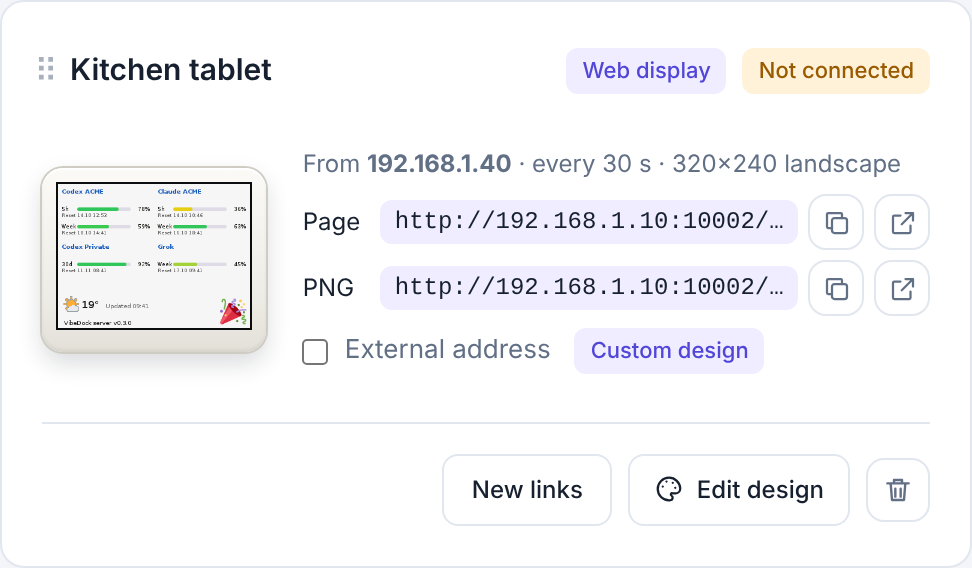
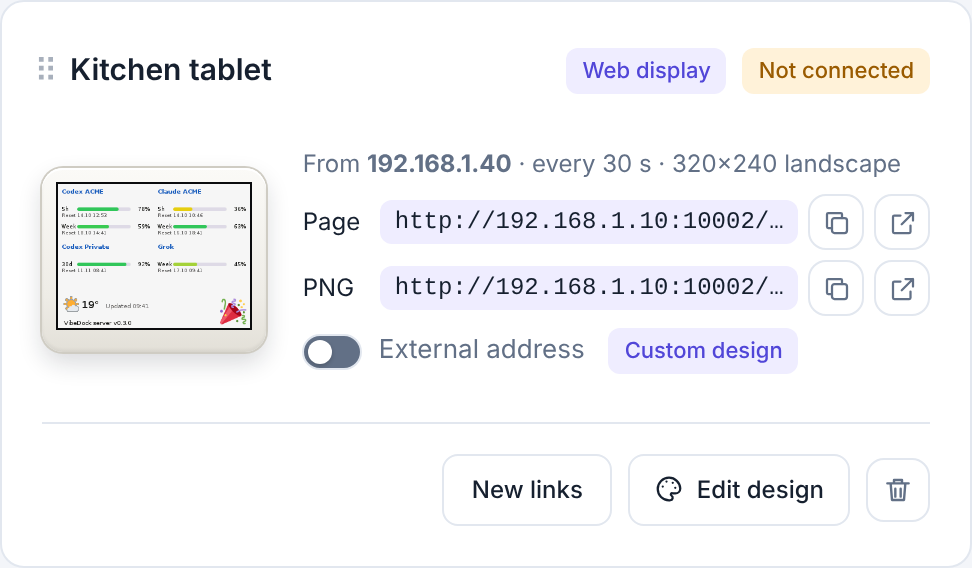
ui: toggles instead of checkboxes, orientation row aligned

Changed region(s): [[0.3086, 0.5687, 0.8025, 0.6585]]

diff --git a/vibedock-server/src/main/resources/static/app.css b/vibedock-server/src/main/resources/static/app.css
@@ -45,7 +45,8 @@ label{display:block;margin:14px 0 6px;font-weight:550;font-size:14px}
 label:has(input[type=checkbox]){display:flex;gap:8px;align-items:center;font-weight:400}
 input:not([type=checkbox]),textarea,select{width:100%;padding:10px 12px;border:1px solid var(--line);border-radius:10px;background:var(--input);color:var(--text);font:inherit;transition:border-color .15s,box-shadow .15s}
 input:focus,textarea:focus,select:focus{outline:none;border-color:var(--accent);box-shadow:0 0 0 3px color-mix(in srgb,var(--accent) 22%,transparent)}
-input[type=checkbox]{width:16px;height:16px;accent-color:var(--accent)}
+/* Every checkbox is drawn as a toggle switch. */
+input[type=checkbox]{appearance:none;-webkit-appearance:none;position:relative;flex-shrink:0;width:30px;height:18px;min-height:0;padding:0;margin:0;border:1px solid var(--line);border-radius:20px;background:var(--muted);cursor:pointer;transition:background .15s}input[type=checkbox]::before{content:"";position:absolute;left:2px;top:2px;width:12px;height:12px;border-radius:50%;background:#fff;box-shadow:0 1px 2px #0003;transition:transform .15s}input[type=checkbox]:checked{background:var(--accent);border-color:var(--accent)}input[type=checkbox]:checked::before{transform:translateX(12px)}input[type=checkbox]:focus-visible{outline:2px solid var(--accent);outline-offset:3px}input[type=checkbox]:disabled{opacity:.5;cursor:not-allowed}
 textarea{font:13px/1.5 ui-monospace,SFMono-Regular,Menlo,monospace;resize:vertical;min-height:5.5em}
 fieldset{border:1px solid var(--line);border-radius:12px;margin:14px 0;padding:6px 16px 14px;background:var(--card-2)}
 legend{padding:0 6px;font-weight:600}
@@ -278,12 +279,12 @@ select{padding-right:32px}small,.meta{font-size:12px}small{margin-top:8px}
 .create-panel{border-color:var(--accent)}.heading-actions{display:flex;gap:8px;flex-wrap:wrap}
 .import-mode{border:0;padding:0;margin:0 0 12px;background:none;border-radius:0;display:flex;gap:6px 20px;flex-wrap:wrap}.import-mode legend{font-size:13px;font-weight:600;margin-bottom:6px;padding:0}.import-mode label{display:flex;align-items:center;gap:6px;margin:0}
 .import-list{list-style:none;padding:0;margin:0 0 12px}.import-list li{border-top:1px solid var(--line);padding:9px 0}.import-list label{display:flex;align-items:center;gap:8px;margin:0;flex-wrap:wrap}.import-mode label{font-weight:500;font-size:14px;min-width:0}
-.import-mode input,.import-list input{width:auto;margin:0;flex:none}.import-review .form-actions button.secondary{background:var(--card);border-color:var(--line);color:var(--text)}
+.import-mode input,.import-list input{margin:0;flex:none}.import-mode input{width:auto}.import-review .form-actions button.secondary{background:var(--card);border-color:var(--line);color:var(--text)}
 .client-card .client-body{grid-template-columns:minmax(112px,auto) minmax(0,1fr);gap:18px}.client-card .device{--s:96px}
 .client-card .client-body .badge{margin:5px 0}.device-identifier{font-size:11px}.client-card-footer{display:flex;align-items:center;justify-content:space-between;gap:12px;flex-wrap:wrap;border-top:1px solid var(--line);margin-top:16px;padding-top:15px}
 .client-card-footer .button{font-size:12px;margin:0}.device-manage{margin-top:12px}.device-manage summary{font-size:12px}.device-manage form{display:inline-block;margin:10px 8px 0 0}
 .source .card-head small{margin:3px 0 0;font-size:11px;font-weight:400}
-.theme-catalog{margin-top:24px;scroll-margin-top:22px}.theme-grid{display:grid;grid-template-columns:repeat(5,minmax(0,1fr));gap:22px 18px;margin-top:20px}.theme-card{min-width:0}.theme-card-heading{display:flex;align-items:center;justify-content:space-between;gap:7px;margin-bottom:9px;min-height:20px}.theme-card h4{margin:0;font-size:14px;min-width:0}.theme-availability{display:inline-flex;flex-shrink:0;margin:0;cursor:pointer}.theme-availability input{appearance:none;-webkit-appearance:none;position:relative;width:30px;height:18px;min-height:0;padding:0;margin:0;border:1px solid var(--line);border-radius:20px;background:var(--muted);cursor:pointer;transition:background .15s}.theme-availability input::before{content:"";position:absolute;left:2px;top:2px;width:12px;height:12px;border-radius:50%;background:#fff;box-shadow:0 1px 2px #0003;transition:transform .15s}.theme-availability input:checked{background:var(--accent);border-color:var(--accent)}.theme-availability input:checked::before{transform:translateX(12px)}.theme-availability input:focus-visible{outline:2px solid var(--accent);outline-offset:3px}.theme-availability input:disabled{opacity:.5;cursor:wait}.theme-card img{display:block;width:100%;height:auto;aspect-ratio:1;border:1px solid var(--line);border-radius:5px}.theme-card>button{width:100%;margin:10px 0 8px;font-size:12px}.theme-card>button[aria-pressed=true]{border-color:var(--accent);color:var(--accent)}.theme-disabled img{opacity:.5}.theme-disabled h4{color:var(--muted)}@media(max-width:800px){.theme-grid{grid-template-columns:repeat(2,minmax(0,1fr))}}@media(max-width:380px){.theme-grid{gap:18px 10px}}
+.theme-catalog{margin-top:24px;scroll-margin-top:22px}.theme-grid{display:grid;grid-template-columns:repeat(5,minmax(0,1fr));gap:22px 18px;margin-top:20px}.theme-card{min-width:0}.theme-card-heading{display:flex;align-items:center;justify-content:space-between;gap:7px;margin-bottom:9px;min-height:20px}.theme-card h4{margin:0;font-size:14px;min-width:0}.theme-availability{display:inline-flex;flex-shrink:0;margin:0;cursor:pointer}.theme-availability input:disabled{cursor:wait}.theme-card img{display:block;width:100%;height:auto;aspect-ratio:1;border:1px solid var(--line);border-radius:5px}.theme-card>button{width:100%;margin:10px 0 8px;font-size:12px}.theme-card>button[aria-pressed=true]{border-color:var(--accent);color:var(--accent)}.theme-disabled img{opacity:.5}.theme-disabled h4{color:var(--muted)}@media(max-width:800px){.theme-grid{grid-template-columns:repeat(2,minmax(0,1fr))}}@media(max-width:380px){.theme-grid{gap:18px 10px}}
 .polling-fields{display:grid;grid-template-columns:repeat(3,minmax(0,1fr));gap:0 14px}@media(max-width:640px){.polling-fields{grid-template-columns:1fr}}
 .source-state{display:grid;grid-template-columns:1fr auto;gap:11px;margin-top:19px;font-size:13px}.source-state>span:nth-child(odd){color:var(--muted)}
 .source-manage{border-top:1px solid var(--line);margin-top:16px;padding-top:15px}.source-manage>summary{display:flex;align-items:center;justify-content:space-between;gap:12px;margin:0;list-style:none}.source-manage>summary::-webkit-details-marker{display:none}
@@ -324,7 +325,7 @@ body:has(.app-footer){display:flex;flex-direction:column}body:has(.app-footer)>m
 .flash-steps{margin:14px 0 0;padding-left:20px;display:grid;gap:16px;font-size:13.5px}.flash-steps li>p{margin:6px 0 0}
 .flash-steps pre,.flash-log{white-space:pre-wrap;overflow-wrap:anywhere;font:12px/1.55 ui-monospace,SFMono-Regular,monospace;background:var(--soft,rgba(127,127,127,.08));border:1px solid var(--line);border-radius:8px;padding:10px 12px;margin:8px 0 0}
 .flash-row{display:flex;align-items:center;gap:8px 10px;flex-wrap:wrap;margin-top:10px}.flash-row button,.flash-row select{margin:0}.flash-row select{width:auto}
-.check{display:inline-flex;align-items:center;gap:8px;font-size:13px}.check input{width:auto;margin:0}
+.check{display:inline-flex;align-items:center;gap:8px;font-size:13px}.check input{margin:0}
 #web-flasher progress{width:100%;margin-top:16px}.flash-log{max-height:260px;overflow:auto}
 .flash-log-box{position:relative}.flash-log-box .flash-log{padding-right:44px}.flash-log-box .icon-button{position:absolute;top:6px;right:6px;width:28px;height:28px}.flash-log-box .icon-button svg{width:15px;height:15px}
 .flash-log[hidden]+.icon-button{display:none}.icon-button.copied{color:var(--ok);border-color:var(--ok)}
@@ -402,7 +403,7 @@ body:has(.app-footer){display:flex;flex-direction:column}body:has(.app-footer)>m
 .client-card-footer button.small-button{font-size:12px;padding:8px 14px}
 .web-link .icon-button.copied{color:var(--ok);border-color:var(--ok)}
 .web-options:has(.device-turn){align-items:baseline}.device-turn{display:inline-flex;align-items:baseline;gap:6px;font-size:12.5px;line-height:normal;margin:0}.device-turn .icon-button{align-self:center}.device-turn>*{margin:0}.client-card .device-turn{margin:0}.device-turn .turn-label{color:var(--muted)}.device-turn strong{min-width:2.4em}.client-card .device-turn .icon-button{width:22px;height:22px;border-radius:6px}.client-card .device-turn .icon-button svg{width:12px;height:12px}
-.device .device-front{transform:rotate(calc(-1 * var(--turn,0deg)));transition:transform .35s ease}.device .device-glass{position:relative;transform:rotate(var(--glass-turn,var(--turn,0deg)))}.device-screen .turn-old{position:absolute;inset:0;width:100%;height:100%;pointer-events:none;background:transparent}.device-screen .turn-old~img{position:relative}.client-card .device-flip,.client-card .web-external,.client-card .power-saving,.client-card .card-actions form,.client-card .card-actions button,.client-card .switch{margin:0}.client-card .web-options .badge{margin:0}.switch{display:inline-flex;align-items:center;gap:8px;font-size:13px;cursor:pointer}.switch input{width:auto;margin:0}
+.device .device-front{transform:rotate(calc(-1 * var(--turn,0deg)));transition:transform .35s ease}.device .device-glass{position:relative;transform:rotate(var(--glass-turn,var(--turn,0deg)))}.device-screen .turn-old{position:absolute;inset:0;width:100%;height:100%;pointer-events:none;background:transparent}.device-screen .turn-old~img{position:relative}.client-card .device-flip,.client-card .web-external,.client-card .power-saving,.client-card .card-actions form,.client-card .card-actions button,.client-card .switch{margin:0}.client-card .web-options .badge{margin:0}.switch{display:inline-flex;align-items:center;gap:8px;font-size:13px;cursor:pointer}.switch input{margin:0}
 .switch:has(input:disabled){opacity:.55;cursor:not-allowed}
 /* Cards side by side share their height; the footer stays at the bottom. */
 .grid-2>.client-card{align-self:stretch;display:flex;flex-direction:column}.client-card>.client-body{flex:1}

diff --git a/docs/manual/MANUAL.md b/docs/manual/MANUAL.md
@@ -623,6 +623,8 @@ both weather/mood positions and the available display sizes. Numeric quotas keep
 use their own bar colours, with a warning colour below 20% remaining (E-Ink stays monochrome). No firmware update
 is needed.
 
+<!-- page break -->
+
 ## Bands
 
 A design is a list of **bands** from top to bottom. A usage band holds:
